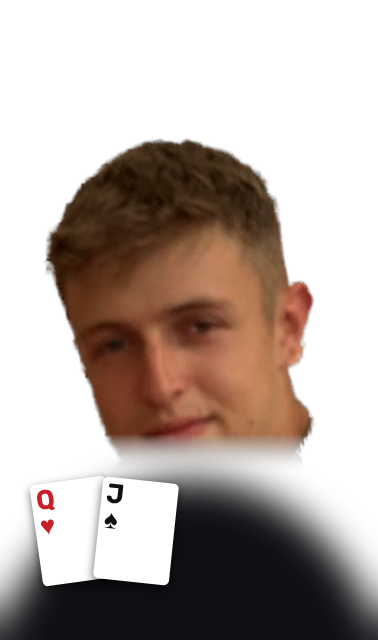
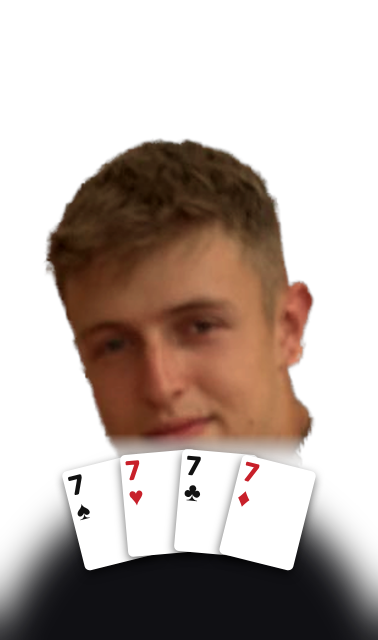
Neustart-Knopf (Tafel + Handy), Q-J aus Jonny- und Philipp-Animation entfernt, Dealer-Button-Position
Claude-Session: https://claude.ai/code/session_01AgPGxtPjejjny7eWLZxXgy

Changed region(s): [[0.0582, 0.6875, 0.8439, 0.9375]]

diff --git a/tafel/index.html b/tafel/index.html
@@ -368,7 +368,7 @@ label.f textarea{min-height:150px;font-family:var(--mono);font-size:13px}
     <button class="b pri" id="sOk">Übernehmen</button>
     <button class="b" id="sCancel">Abbrechen</button>
     <span style="flex:1"></span>
-    <button class="b red" id="sReset">Turnier komplett zurücksetzen</button>
+    <button class="b" id="sRestart">Turnier neu starten (Spieler bleiben)</button> <button class="b red" id="sReset">Turnier komplett zurücksetzen</button>
   </div>
 </div></div>
 
@@ -467,7 +467,7 @@ function renderSeats(){
   });
   const n=S.players.length;if(!n)return;
   S.dealer=((S.dealer%n)+n)%n;
-  const [x,y]=seatPos(S.dealer,n),dx=50+(x-50)*.7,dy=50+(y-50)*.62;
+  const [x,y]=seatPos(S.dealer,n),dx=50+(x-50)*.72,dy=50+(y-50)*.8;
   $("dbtn").style.left=dx+"%";$("dbtn").style.top=dy+"%";
 }
 function render(){
@@ -801,7 +801,7 @@ Object.values(CARDS).forEach(u=>[].concat(typeof u==="string"?u:[u.img,u.fg]).fo
 function cardHtml(c){
   if(!c)return null;const o=typeof c==="string"?{img:c}:c;
   const bokeh=Array.from({length:14},(_,j)=>'<i style="--x:'+(Math.random()*100).toFixed(0)+'%;--y:'+(Math.random()*95).toFixed(0)+'%;--s:'+(6+Math.random()*26).toFixed(0)+'px;--d:'+(3+Math.random()*5).toFixed(1)+'s;--w:'+(Math.random()*-6).toFixed(1)+'s"></i>').join("");
-  const V=/^karten\//.test(o.img)?"?v=3":"";return '<img src="'+o.img+V+'" alt="">'+(o.fg?'<div class="anim">'+bokeh+'<b class="smk"></b></div><img class="fg" src="'+o.fg+V+'" alt="">':'')+'<span class="shine"></span>';
+  const V=/^karten\//.test(o.img)?"?v=4":"";return '<img src="'+o.img+V+'" alt="">'+(o.fg?'<div class="anim">'+bokeh+'<b class="smk"></b></div><img class="fg" src="'+o.fg+V+'" alt="">':'')+'<span class="shine"></span>';
 }
 let intro=null;
 function introShow(list,done){
@@ -854,6 +854,15 @@ function applySettings(){
   }catch(e){$("sErr").textContent=e.message;}
 }
 $("sOk").onclick=applySettings;$("sCancel").onclick=()=>$("mSet").hidden=true;
+function restartTournament(){
+  // same players, seats and settings; clock, rebuys, eliminations and minigames back to start
+  closeAll();if(intro)intro.stop();
+  S.i=0;S.running=false;S.endAt=null;S.left=null;S.started=null;S.ended=null;
+  S.players.forEach(p=>{p.entries=[Object.assign({},p.entries[0]||{paid:"bar"},{t:null,lvl:0})];p.out=null;});
+  S.outOrder=[];S.fired={};S.fireAt={};S.active=null;S.activeUntil=null;S.msgs=[];S.log=[];log("restart");
+  save();buildSeats();render();toast("Turnier neu gestartet · Level 1 bereit");
+}
+$("sRestart").onclick=()=>{if(!confirm("Turnier neu starten? Uhr auf Level 1, alle Rebuys und Ausgeschiedenen weg. Spieler und Plätze bleiben."))return;restartTournament();$("mSet").hidden=true;};
 $("sReset").onclick=()=>{if(!confirm("Wirklich alles zurücksetzen? Rebuys, Platzierungen und Zeit sind dann weg. Vorher Export machen!"))return;download();S=fresh();LEVELS=S.levels;save();buildSeats();render();$("mSet").hidden=true;};
 
 /* ---------- live commands from Claude ---------- */
@@ -895,6 +904,7 @@ function runCmd(c){
     case "skipintro":if(intro)intro.stop();break;
     case "dealernext":$("bDealer").click();break;
     case "players":openPlayers();break;
+    case "restart":restartTournament();break;
     case "undo":{const p=pl(c.name);if(p&&p.entries.length>1){p.entries.pop();log("rebuy-undo",{name:p.name});}break;}
     default:return;
   }}catch(e){console.warn("cmd",c,e);}

diff --git a/tafel/handy.html b/tafel/handy.html
@@ -97,6 +97,7 @@ input{font:16px var(--sans);background:var(--s2);color:var(--fg);border:1px soli
 <h2>Ende</h2>
 <div class="g g2">
   <button data-c='{"op":"result"}'>Abrechnung zeigen</button>
+  <button id="restartBtn" style="border-color:rgba(229,103,92,.5);color:#e5675c">Turnier neu starten</button>
   <button data-c='{"op":"export"}'>⬇ Export am Laptop</button>
 </div>
 <p class="note">Befehle kommen in 1–2 Sekunden auf der Tafel an. Klappt das mal nicht, schreib Claude im Chat, das geht immer.</p>
@@ -119,6 +120,7 @@ async function send(c,label){
   catch(e){toast("✕ Nicht gesendet. Netz prüfen oder Claude im Chat schreiben.");}
 }
 document.querySelectorAll("[data-c]").forEach(b=>b.onclick=()=>send(JSON.parse(b.dataset.c),b.textContent.trim()));
+document.getElementById("restartBtn").onclick=()=>{if(confirm("Turnier neu starten? Uhr auf Level 1, alle Rebuys und Ausgeschiedenen weg. Spieler und Plätze bleiben."))send({op:"restart"},"Neustart");};
 $("play").onclick=()=>{
   const run=st&&st.running;send({op:run?"pause":"play"},run?"Pause":"Start");
   if(st){if(run){st.left=Math.max(0,(st.localEnd-Date.now())/1000);st.running=false;st.localEnd=null;}else{st.running=true;st.localEnd=Date.now()+st.left*1000;}

diff --git a/spieler/index.html b/spieler/index.html
@@ -49,7 +49,7 @@ h1{font-size:clamp(34px,6vw,64px);margin:44px 0 6px;letter-spacing:-.02em;backgr
 </main>
 <div class="ov" id="ov" hidden><button class="x" id="x" aria-label="Schließen">✕</button><button class="nav l" id="pl" aria-label="Zurück">‹</button><div id="bigw"></div><button class="nav r" id="nr" aria-label="Weiter">›</button></div>
 <script>
-const K="../tafel/karten/",V="?v=3";
+const K="../tafel/karten/",V="?v=4";
 const P=[
  {n:"Tim",img:"tim.jpg"},{n:"Niklas",img:"niklas.jpg"},{n:"Nico",img:"nico.jpg"},{n:"Manu",img:"manu.jpg"},
  {n:"Magg",img:"magg.jpg"},{n:"Oli",img:"oli.jpg",fg:"oli-fg.png"},{n:"Domi C",img:"domi-c.jpg",fg:"domi-c-fg.png"},{n:"Philipp",img:"philipp.jpg",fg:"philipp-fg.png"},
